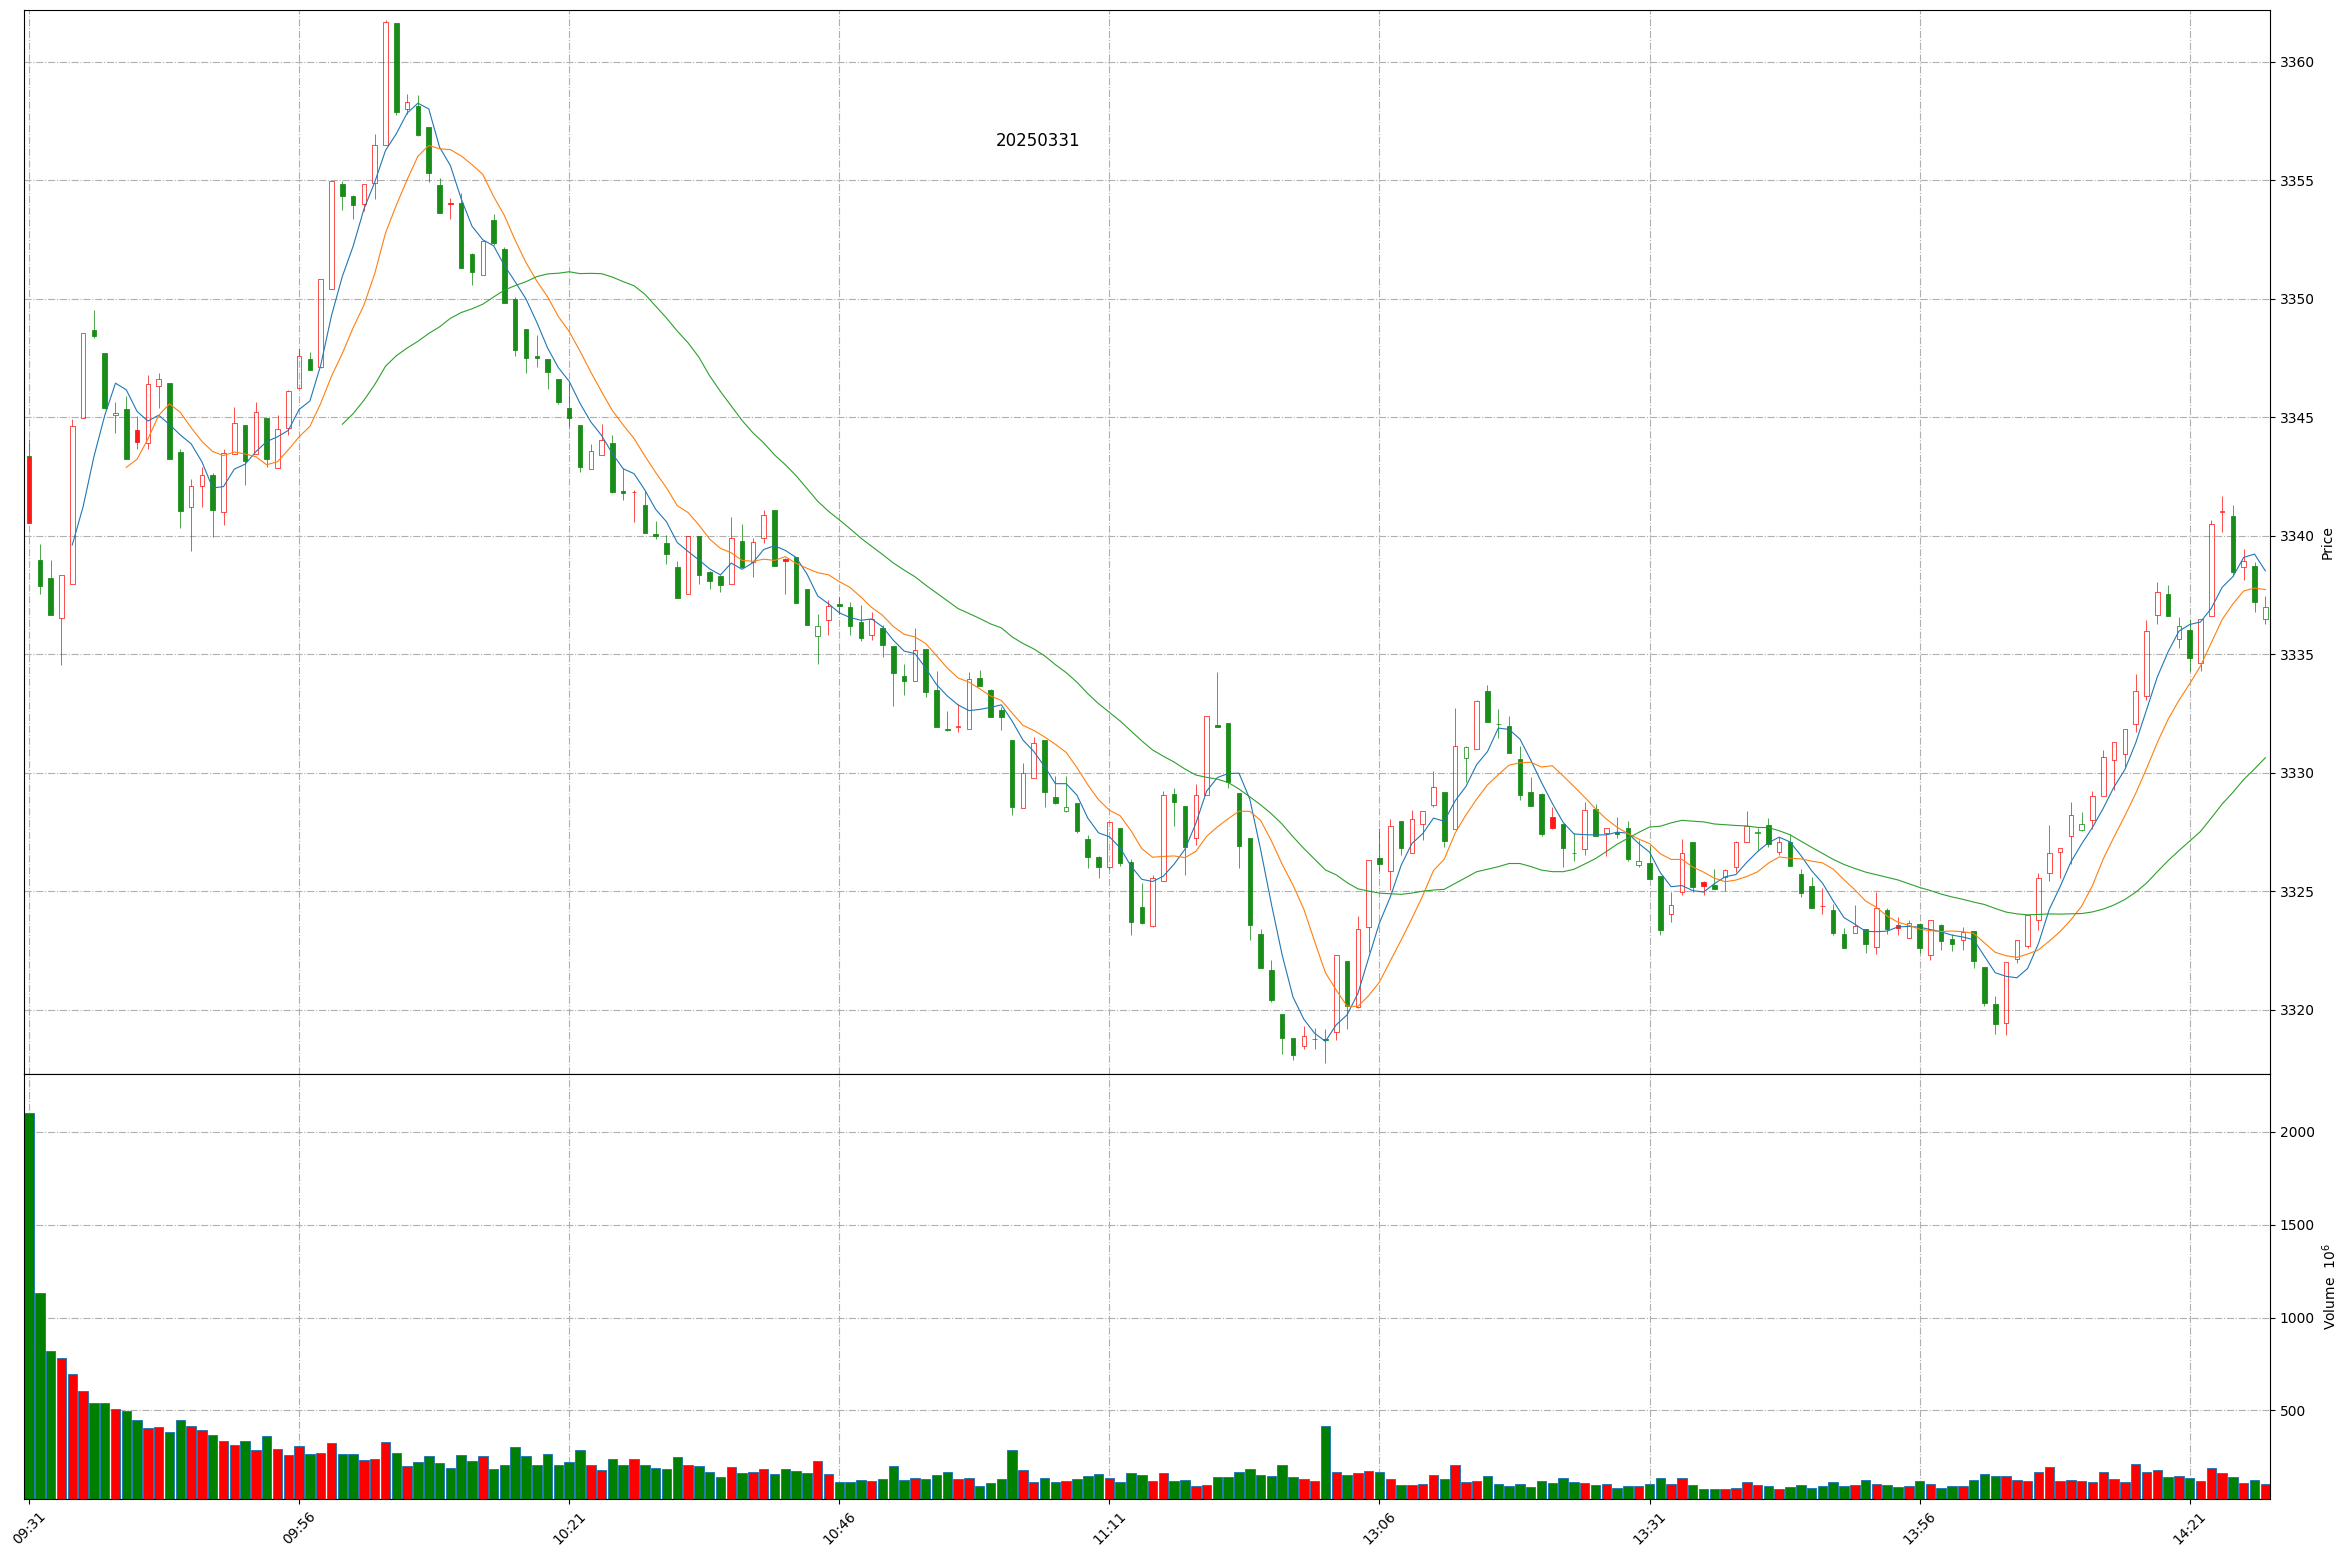
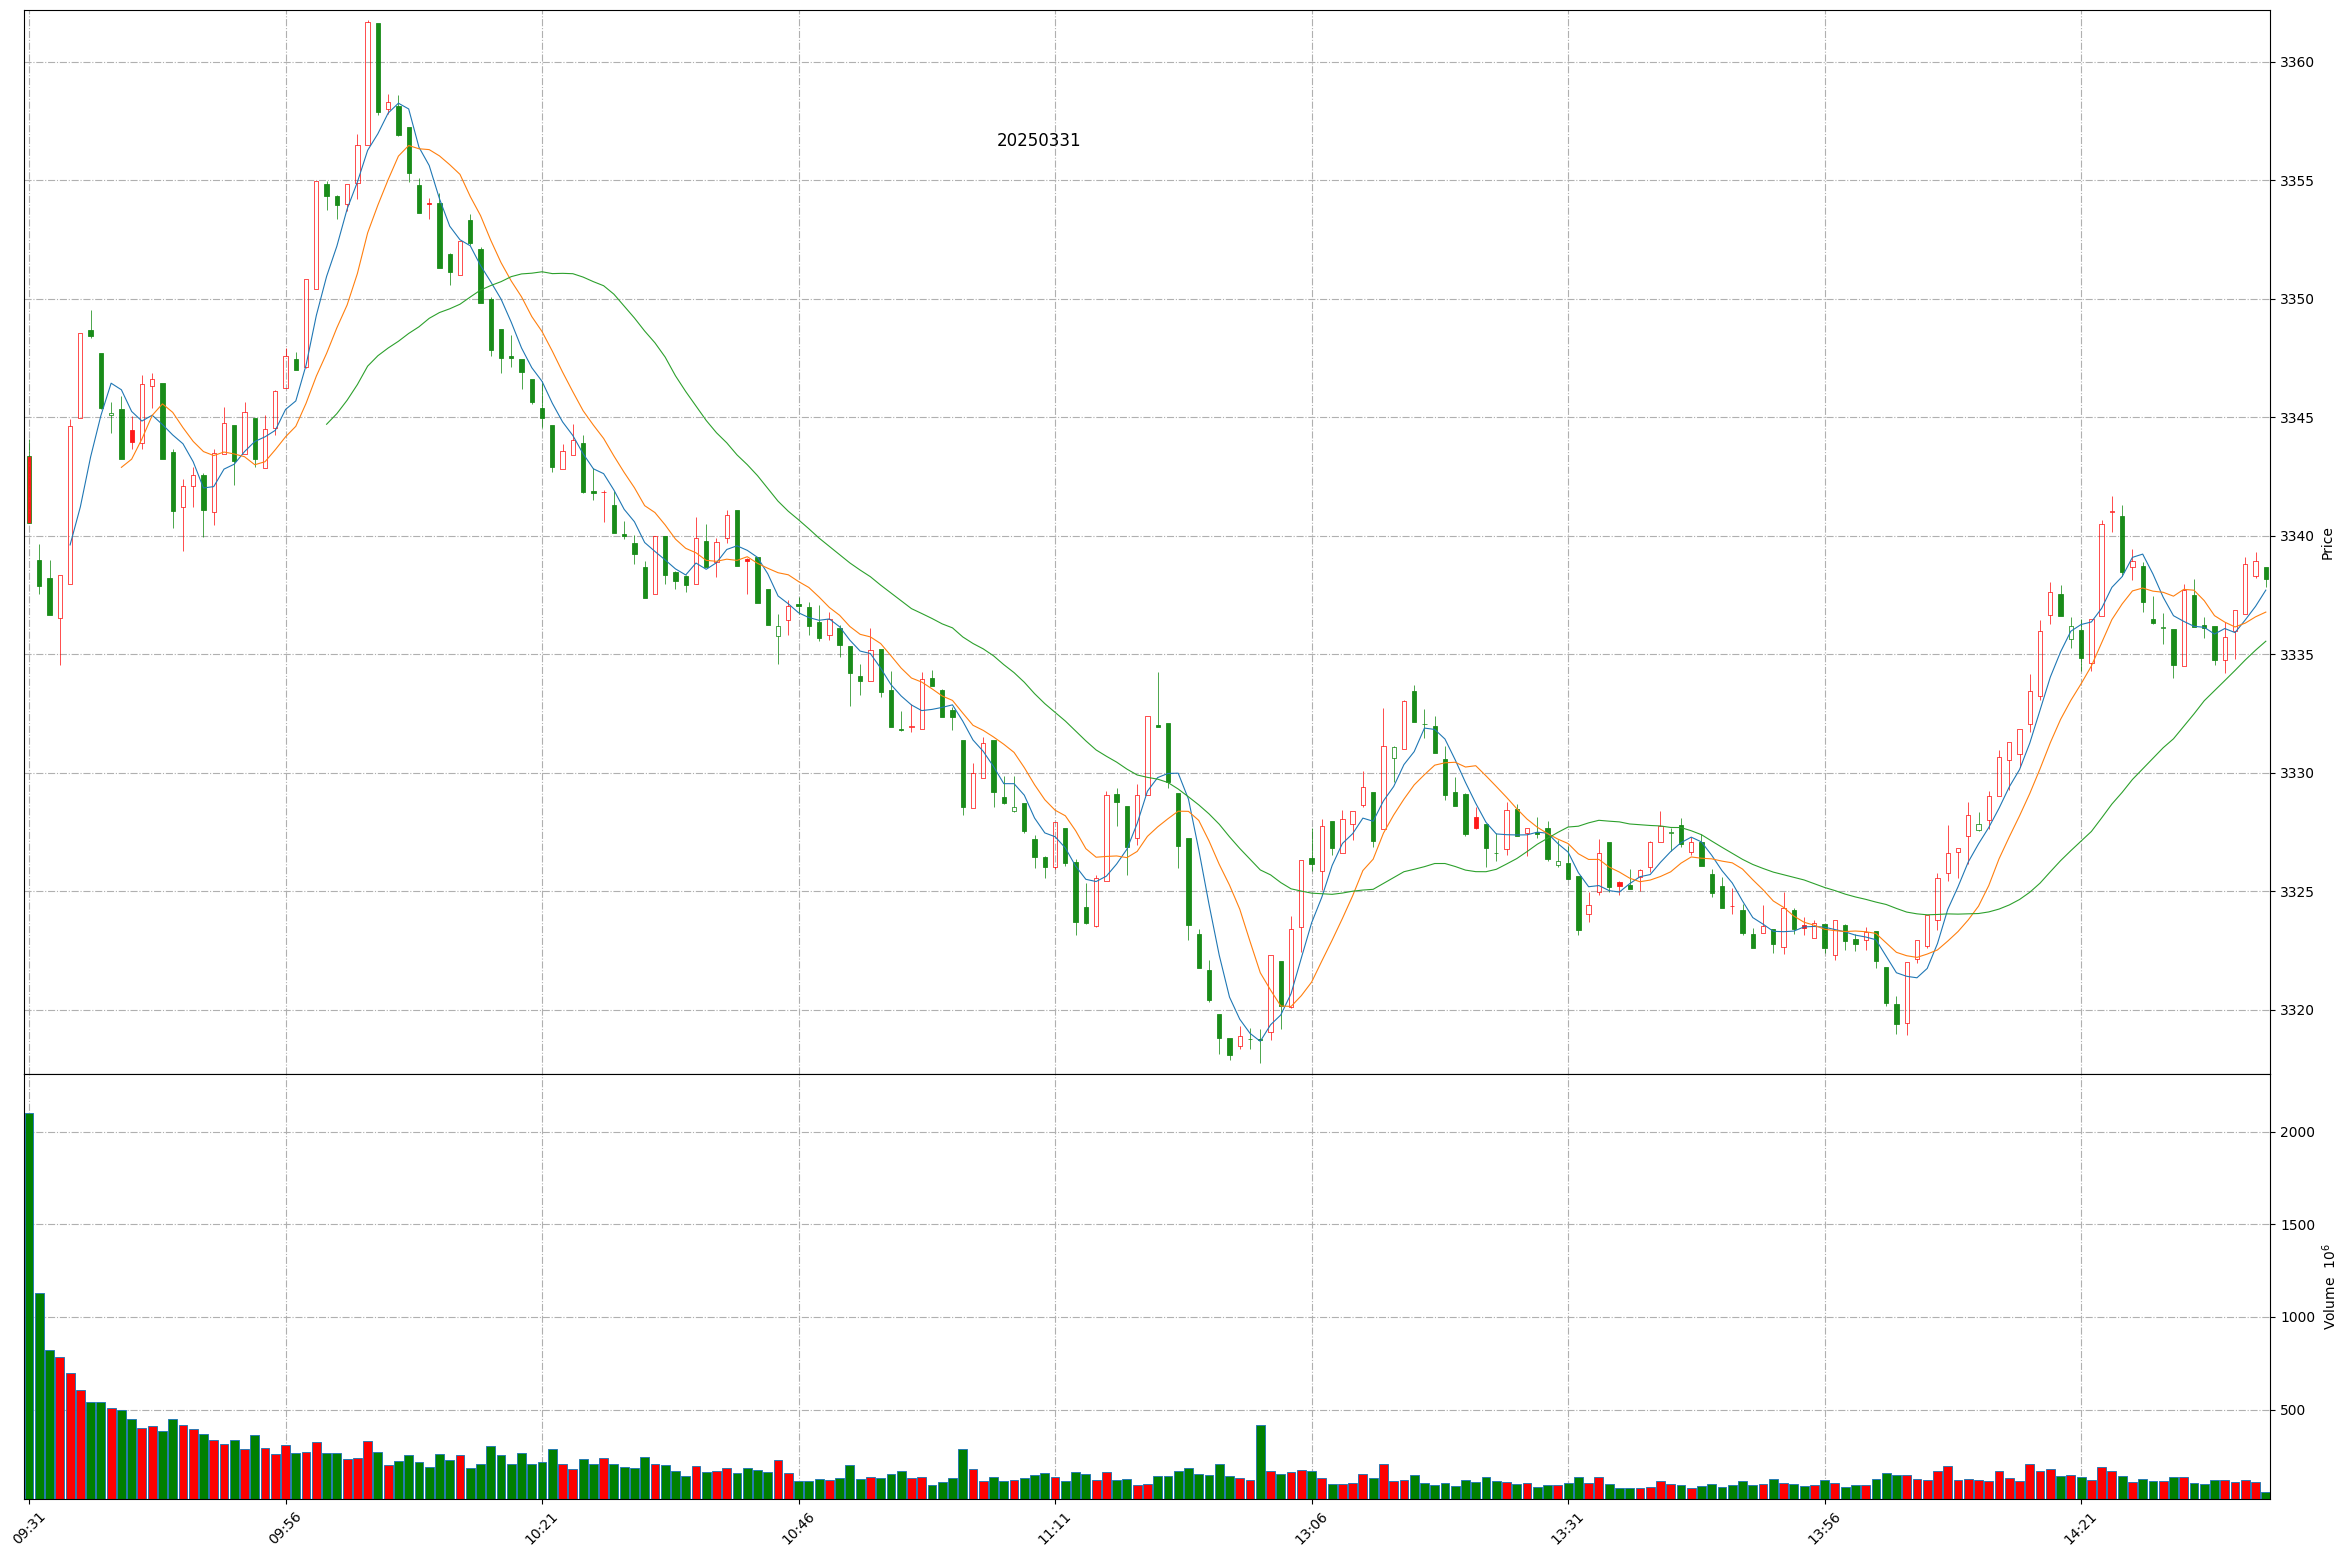
Github action update at 2025-03-31 14:38:44.

diff --git a/README.md b/README.md
@@ -1,11 +1,11 @@
 
 # Daily-A-share-market-quotes 每日 A 股指数（5min 更新）- 20250331
 
-### 上证指数 20250331 14:28
+### 上证指数 20250331 14:38
 ![](./fig/2025/3/20250331-sh000001.png)
 
-### 深证成指 20250331 14:28
+### 深证成指 20250331 14:38
 ![](./fig/2025/3/20250331-sz399001.png)
 
-### 北证50 20250331 14:28
+### 北证50 20250331 14:38
 ![](./fig/2025/3/20250331-bj899050.png)
